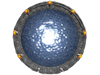
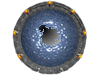
animated stargate

Changed region(s): [[0.39, 0.32, 0.63, 0.64]]

diff --git a/lib/stargate.py b/lib/stargate.py
@@ -9,15 +9,22 @@ class Stargate:
 
     def __init__(self, screen):
         self._stargates = []
+        self._stargate = []
         self._stargates_x = []
         self._stargates_positions = [0]
         self._screen = screen
         self._stargates.append(pygame.image.load("backgrounds\\stargate.png").convert_alpha())
         self._stargates.append(pygame.image.load("backgrounds\\stargate.png").convert_alpha())
+        for x in range(1,9):
+            self._stargate.append(pygame.image.load(f"backgrounds\\stargate{x}.png").convert_alpha())
+        
         self._which = -1
         self._diff_x = 0
+        self._min_city = random.randint(0,3)
+        self._max_city = self._min_city +1
         self._max = len(self._stargates) - 1
         first = 0 - random.randint(0,6000)
+        self._counter = 1
         for _ in range(0, self._max):
             self._stargates_x.append(self._screen.get_width() // 2)
             self._stargates_positions.append(first)
@@ -66,6 +73,15 @@ class Stargate:
 
     def draw(self, which_city, world_x, increment=0):
         """Draw the city layers on the screen."""
+        self._counter +=1
+        if self._counter % 10 ==0:
+            animation = self._counter // 10
+            if animation> len(self._stargate)-1:
+                animation=0
+            self._stargates[1] = self._stargate[animation]
+            self._stargates[0] = self._stargate[animation]
+        if self._counter>90:
+            self._counter = 0
         if which_city <= self._max:
             self._which = which_city
             screen_x = self._stargates_positions[which_city] - world_x + self._screen.get_width() // 2 
